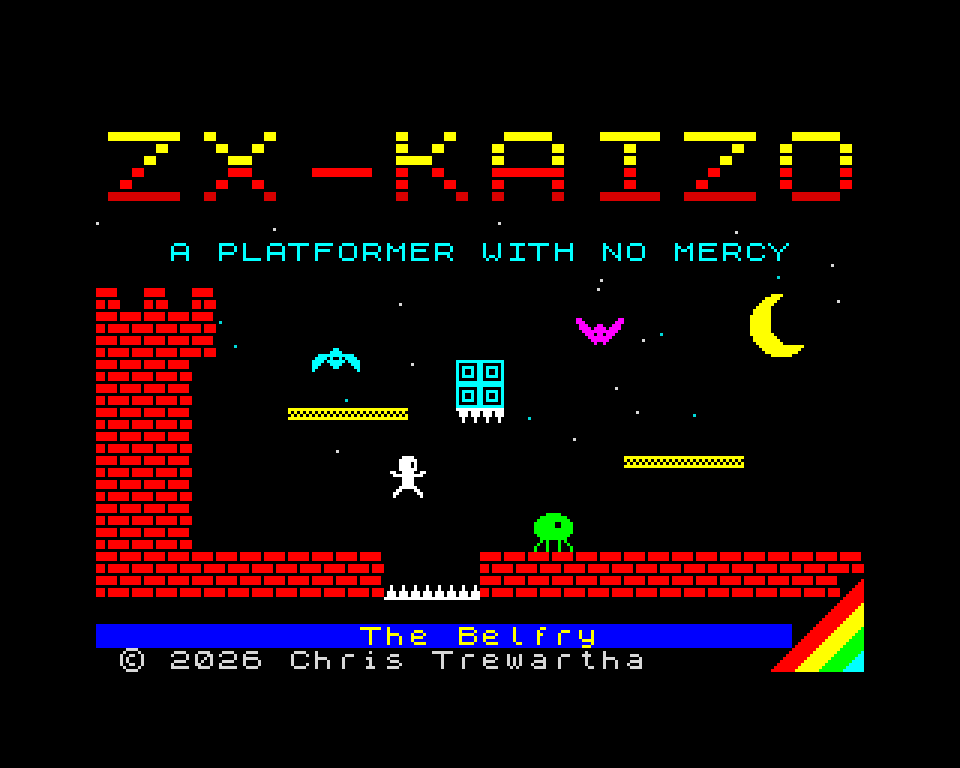
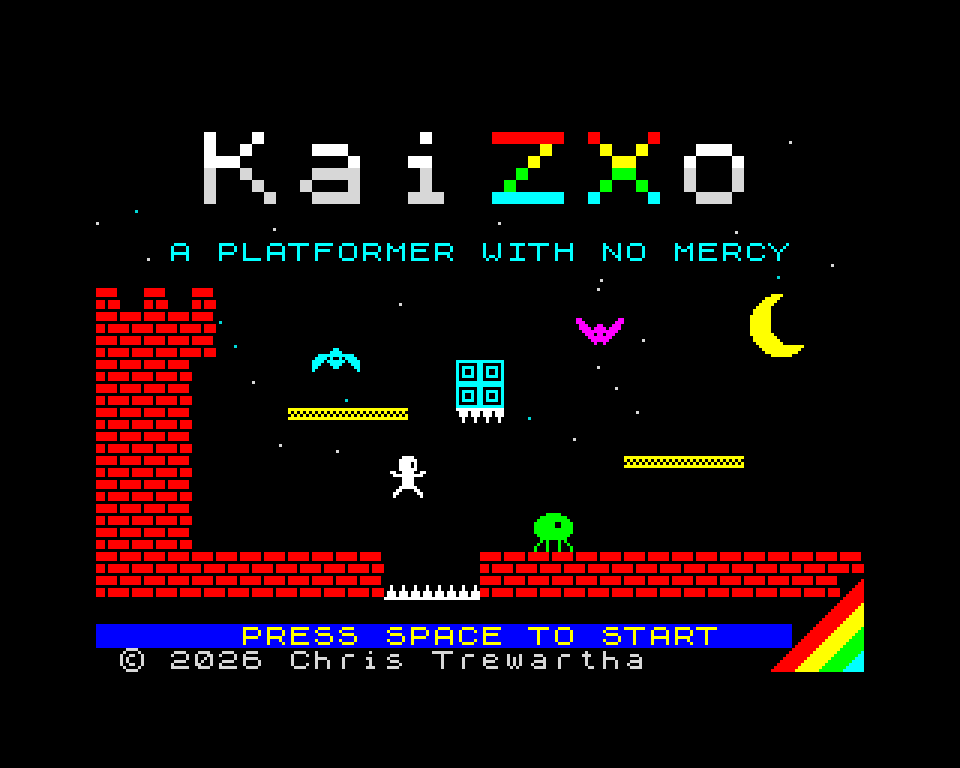
Add start screen and rename the game to KaiZXo
The cover image doubles as the start screen: make_cover.ps1 now writes
data/title.scr, build_data.ps1 zx0-compresses it, and src/title.c unpacks
it to the screen and blinks a PRESS SPACE TO START prompt until a jump
key is pressed.

diff --git a/src/title.c b/src/title.c
@@ -1,0 +1,37 @@
+#include <string.h>
+#include <compress/zx0.h>
+#include "title.h"
+#include "render.h"
+#include "hud.h"
+#include "input.h"
+#include "interrupts.h"
+
+// Must match $prompt in tools/make_cover.ps1, which draws it on the cover.
+// The screen itself (data/title.scr) leaves the bar empty for it.
+#define PROMPT     "PRESS SPACE TO START"
+#define PROMPT_LEN (sizeof(PROMPT) - 1)
+#define PROMPT_COL ((32 - PROMPT_LEN) / 2)
+
+#define ATTR_PROMPT_ON  0x4E    // bright yellow on blue, like the bar
+#define ATTR_PROMPT_OFF 0x49    // blue on blue: hidden
+#define BLINK_BIT       0x10    // of frame_count: on and off every 16 frames
+
+// zx0-compressed 6912-byte screen (build/gen/title_scr.c)
+extern const unsigned char title_scr[];
+
+void title_screen(void) {
+    unsigned char *prompt_attr = SCREEN_ATTR + HUD_ROW * 32 + PROMPT_COL;
+
+    // Black on black while unpacking; the attributes come last and reveal
+    // the whole screen at once
+    memset(SCREEN_ATTR, 0, 768);
+    dzx0_standard(title_scr, SCREEN_BITMAP);
+    print_at(PROMPT_COL, HUD_ROW, PROMPT);
+
+    // A jump still held from before must be let go first
+    while (input_read() & IN_JUMP) wait_frame();
+    while (!(input_read() & IN_JUMP)) {
+        wait_frame();
+        memset(prompt_attr, (frame_count & BLINK_BIT) ? ATTR_PROMPT_OFF : ATTR_PROMPT_ON, PROMPT_LEN);
+    }
+}

diff --git a/src/main.c b/src/main.c
@@ -9,6 +9,7 @@
 #include "render.h"
 #include "room.h"
 #include "hud.h"
+#include "title.h"
 
 // Keep the stack in uncontended RAM, clear of the IM2 table at $FE00
 #pragma output REGISTER_SP = 0xFDFC
@@ -223,7 +224,7 @@ static void game_tick(unsigned char held, unsigned char pressed) {
 
 int main(void) {
     unsigned char held;
-    unsigned char prev = 0;
+    unsigned char prev;
     unsigned char pressed;
     unsigned char ticks;
 
@@ -231,6 +232,7 @@ int main(void) {
     zx_border(INK_BLACK);
     render_init();
     input_init();
+    title_screen();
 
     respawn_room = room_start;
     respawn_x = room_start_x;
@@ -239,6 +241,8 @@ int main(void) {
     respawn();
     safe_timer = 0;
     sync_sprites();
+    // The jump that started the game shouldn't also make the player jump
+    prev = input_read();
 
     for (;;) {
         // Sync to the frame interrupt, which fires at the start of the top

diff --git a/src/title.h b/src/title.h
@@ -1,0 +1,7 @@
+#ifndef TITLE_H
+#define TITLE_H
+
+// Show the start screen and wait for a jump press to start the game
+void title_screen(void);
+
+#endif

diff --git a/README.md b/README.md
@@ -1,12 +1,14 @@
-# ZX-Kaizo
+# KaiZXo
 
-![ZX-Kaizo cover](docs/cover.png)
+![KaiZXo start screen](docs/cover.png)
 
 A tough, precise platformer for the 48K ZX Spectrum, written in C and Z80
 assembly with z88dk. Climb, fall and wall-jump through 15 rooms of a
 haunted castle, from the Belfry down to the Crypt, past spikes, beetles and
 bats. Lives are unlimited. When you die you go straight back to the last
 place you stood safely.
+
+At the start screen, press any jump key to begin.
 
 ## Controls
 
@@ -52,8 +54,8 @@ Fuse** is the default test task. From a shell:
 ```sh
 powershell -NoProfile -ExecutionPolicy Bypass -File tools/build_data.ps1
 zcc +zx -vn -compiler=sdcc -SO3 -m -Isrc -Ibuild/gen \
-    src/main.c src/player.c src/enemy.c src/room.c src/hud.c src/render.c src/sprites.c \
-    build/gen/rooms_data.c build/gen/sprite_art.c \
+    src/main.c src/player.c src/enemy.c src/room.c src/hud.c src/render.c src/sprites.c src/title.c \
+    build/gen/rooms_data.c build/gen/sprite_art.c build/gen/title_scr.c \
     src/render.asm src/input.asm src/interrupts.asm \
     -o build/game -create-app
 fuse --machine 48 --auto-load --tape build/game.tap
@@ -85,20 +87,25 @@ that don't line up with the room next door. The comments at the top of
 
 ```
 src/         game code: C, plus Z80 assembly for input, interrupts and drawing
-data/        world map and sprite art
-tools/       data converter and cover-image generator
+data/        world map, sprite art and start screen
+tools/       data converter and start-screen generator
 docs/        README cover image
 ```
 
 To show CPU use as coloured bars in the border, set `DEBUG_TIMING` to 1 in
 `src/main.c`.
 
-## The cover image
+## The start screen
 
-[docs/cover.png](docs/cover.png) is a real Spectrum screen, with
-one ink and one paper colour per 8x8 cell. It's built from the game's own
-tiles and sprites and the ROM font by `tools/make_cover.ps1`. The script also
-writes `docs/cover.scr`, which you can load into an emulator:
+The start screen, [data/title.scr](data/title.scr), is a real Spectrum screen
+with one ink and one paper colour per 8x8 cell. `tools/make_cover.ps1` draws
+it from the game's own tiles and sprites and the ROM font. The script also
+saves the same screen as [docs/cover.png](docs/cover.png) for this README.
+The build compresses the screen with zx0, to under 1KB, and the game unpacks
+it straight into screen memory. The game prints the blinking "PRESS SPACE TO
+START" prompt itself.
+
+Run the script again after changing it, or the tiles or sprites:
 
 ```sh
 powershell -NoProfile -ExecutionPolicy Bypass -File tools/make_cover.ps1
